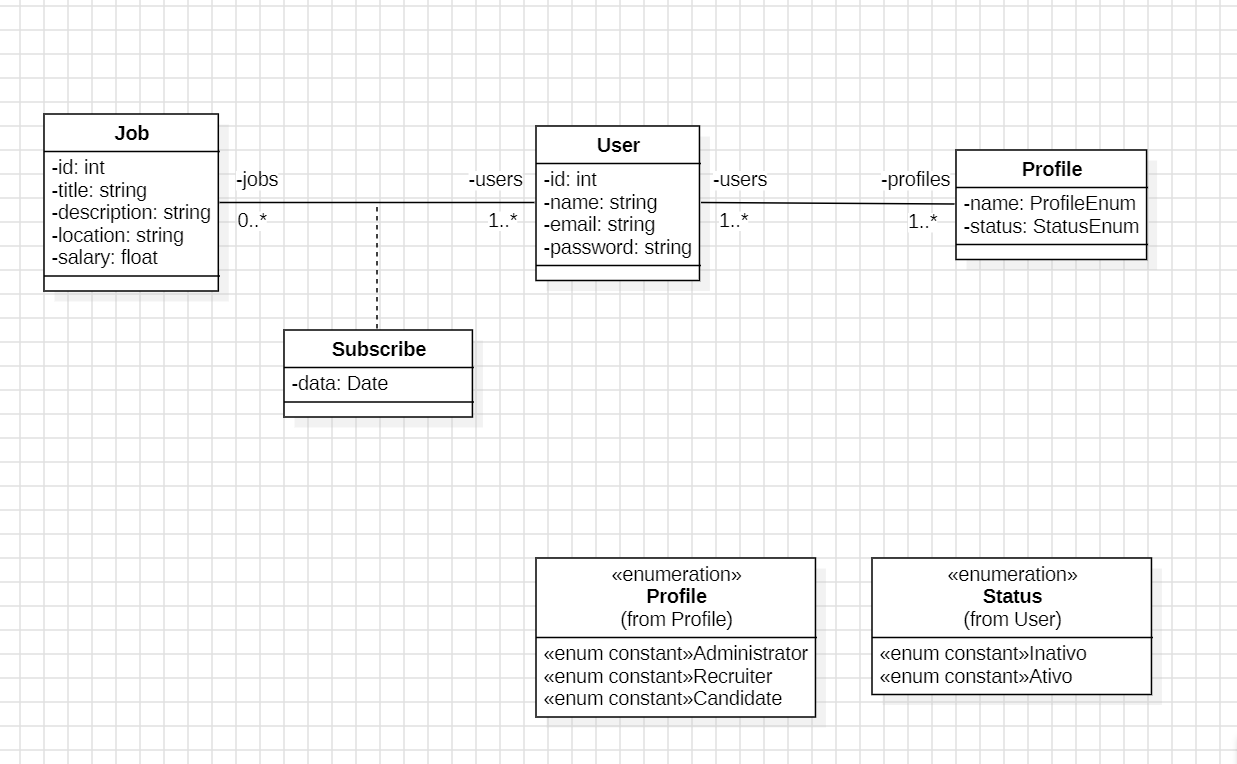
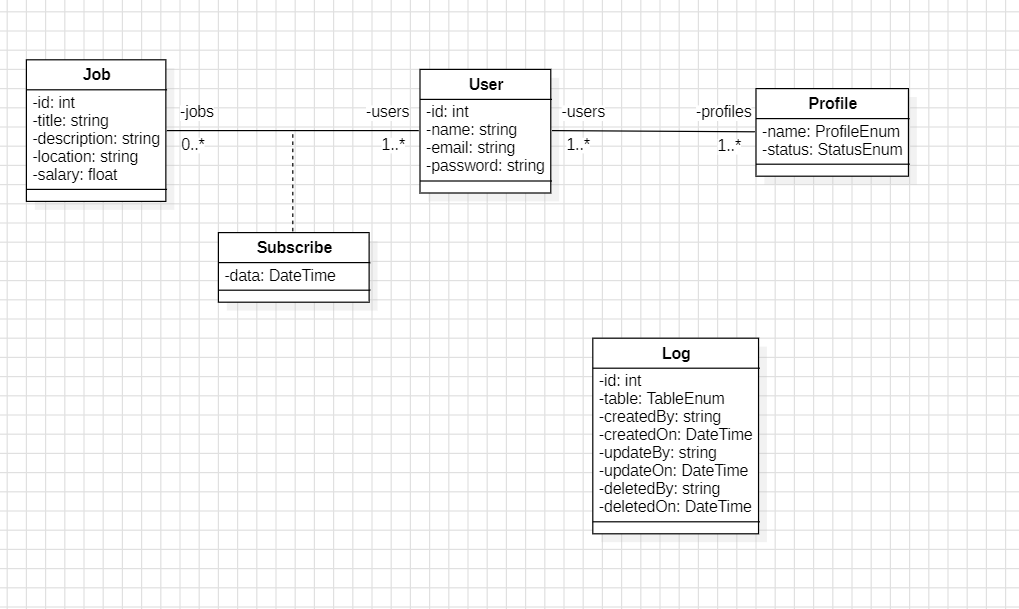
feat: implementação tabela de log

diff --git a/README.md b/README.md
@@ -58,7 +58,11 @@ de emprego.
 
 ## Diagrama de Classes
 
-![class-diagram](../Documentation/class-diagram.png)
+![class-diagram](../Jobs.Documentations/class-diagram.png)
+
+## Enumeradores
+
+![enum](../Jobs.Documentations/enum.png)
 
 ## Regras Negociais
 
